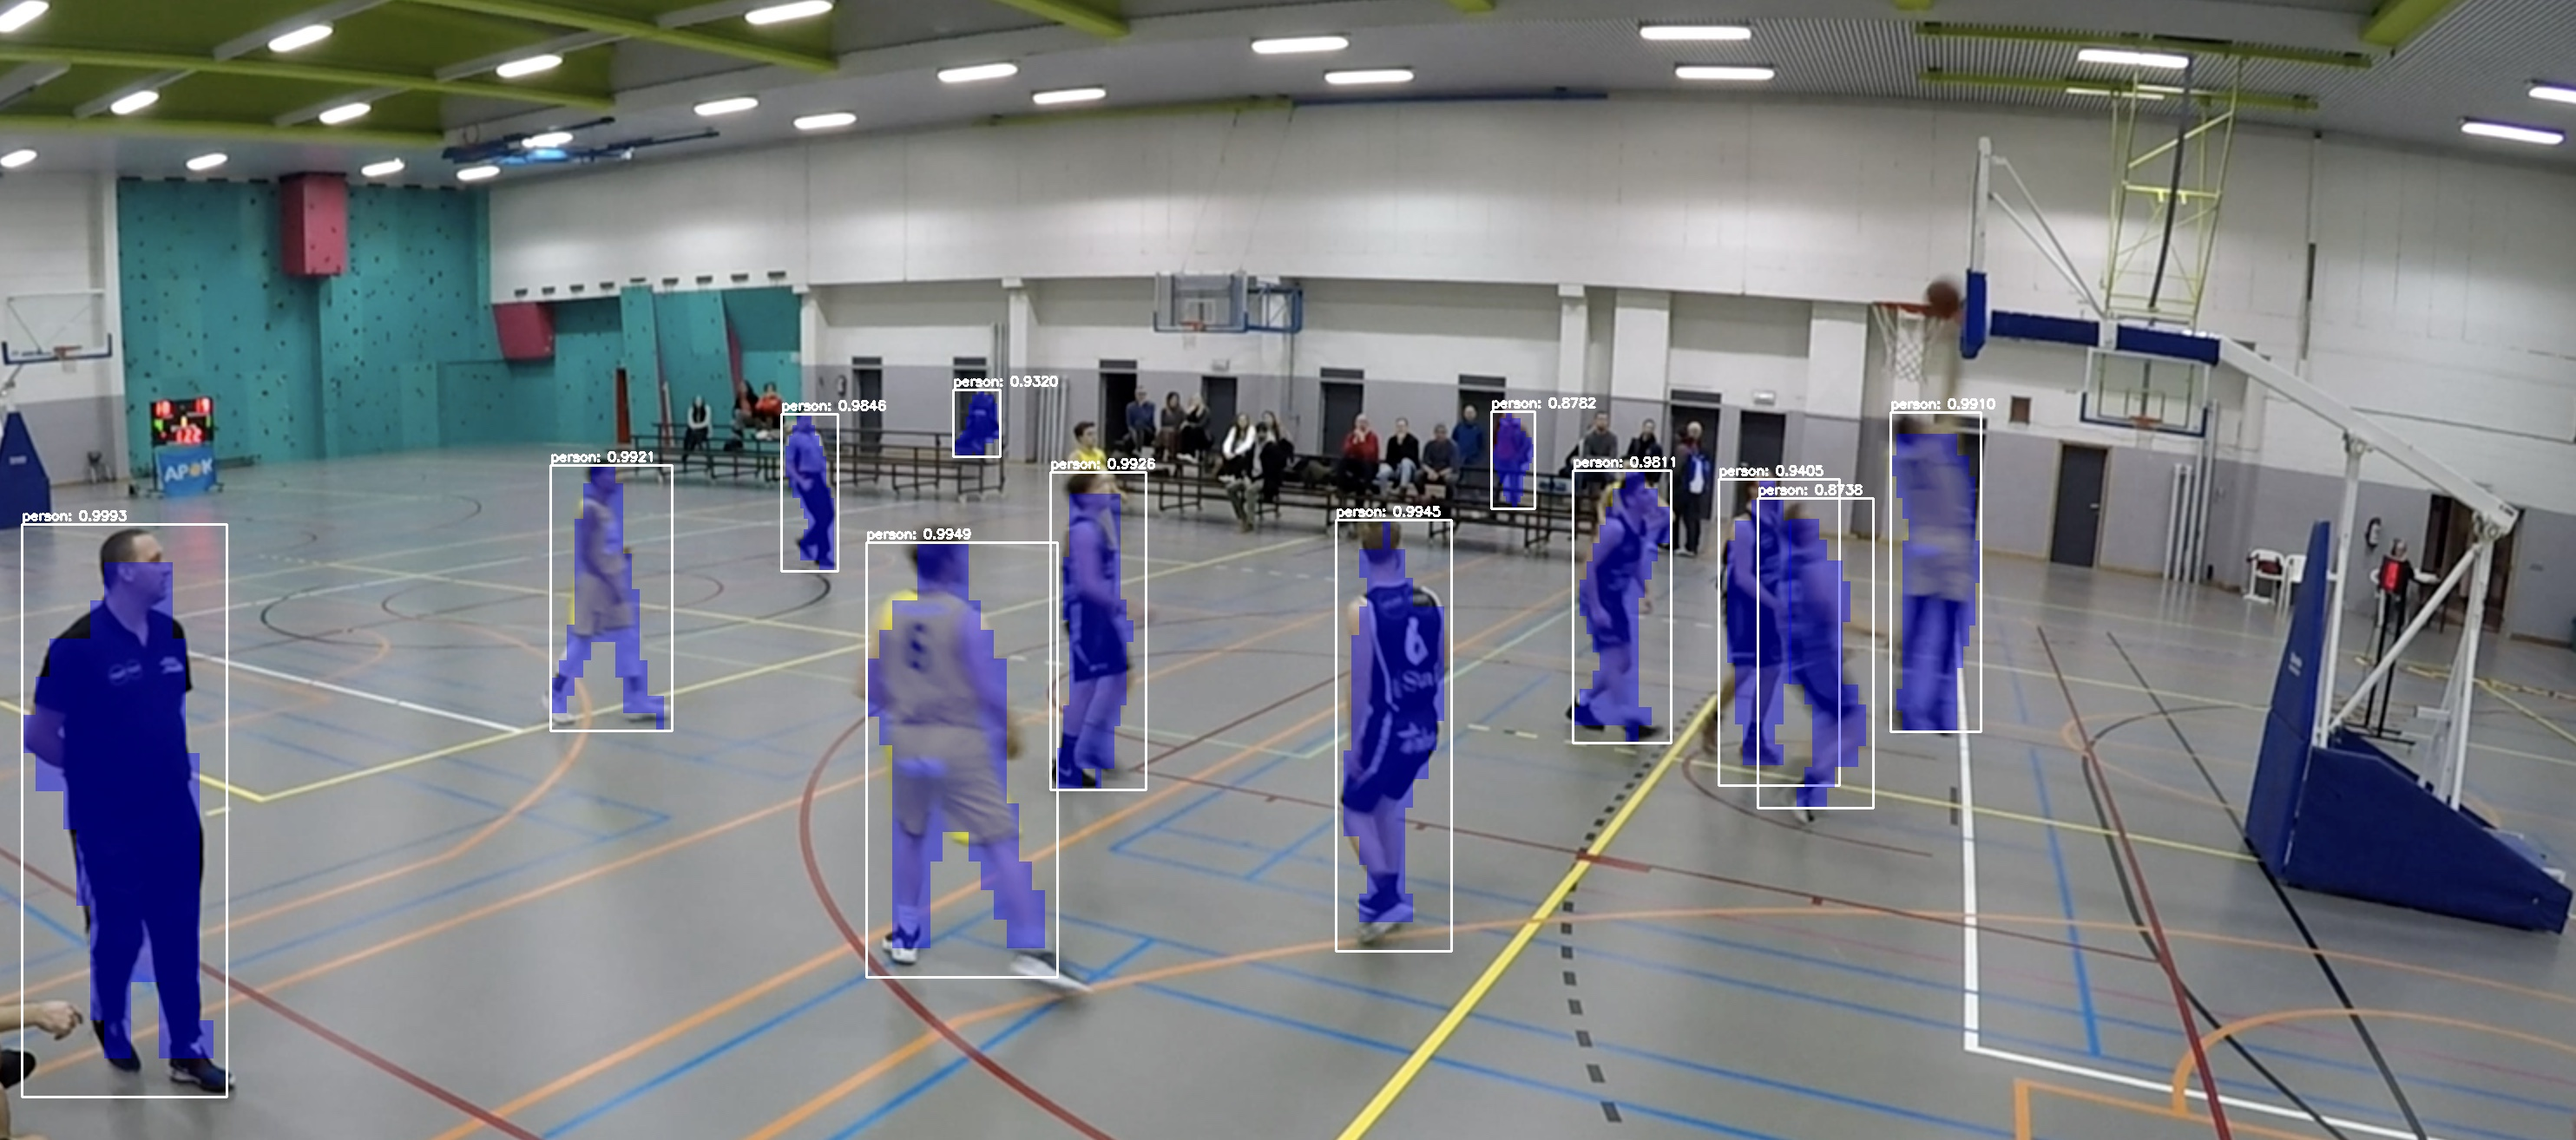
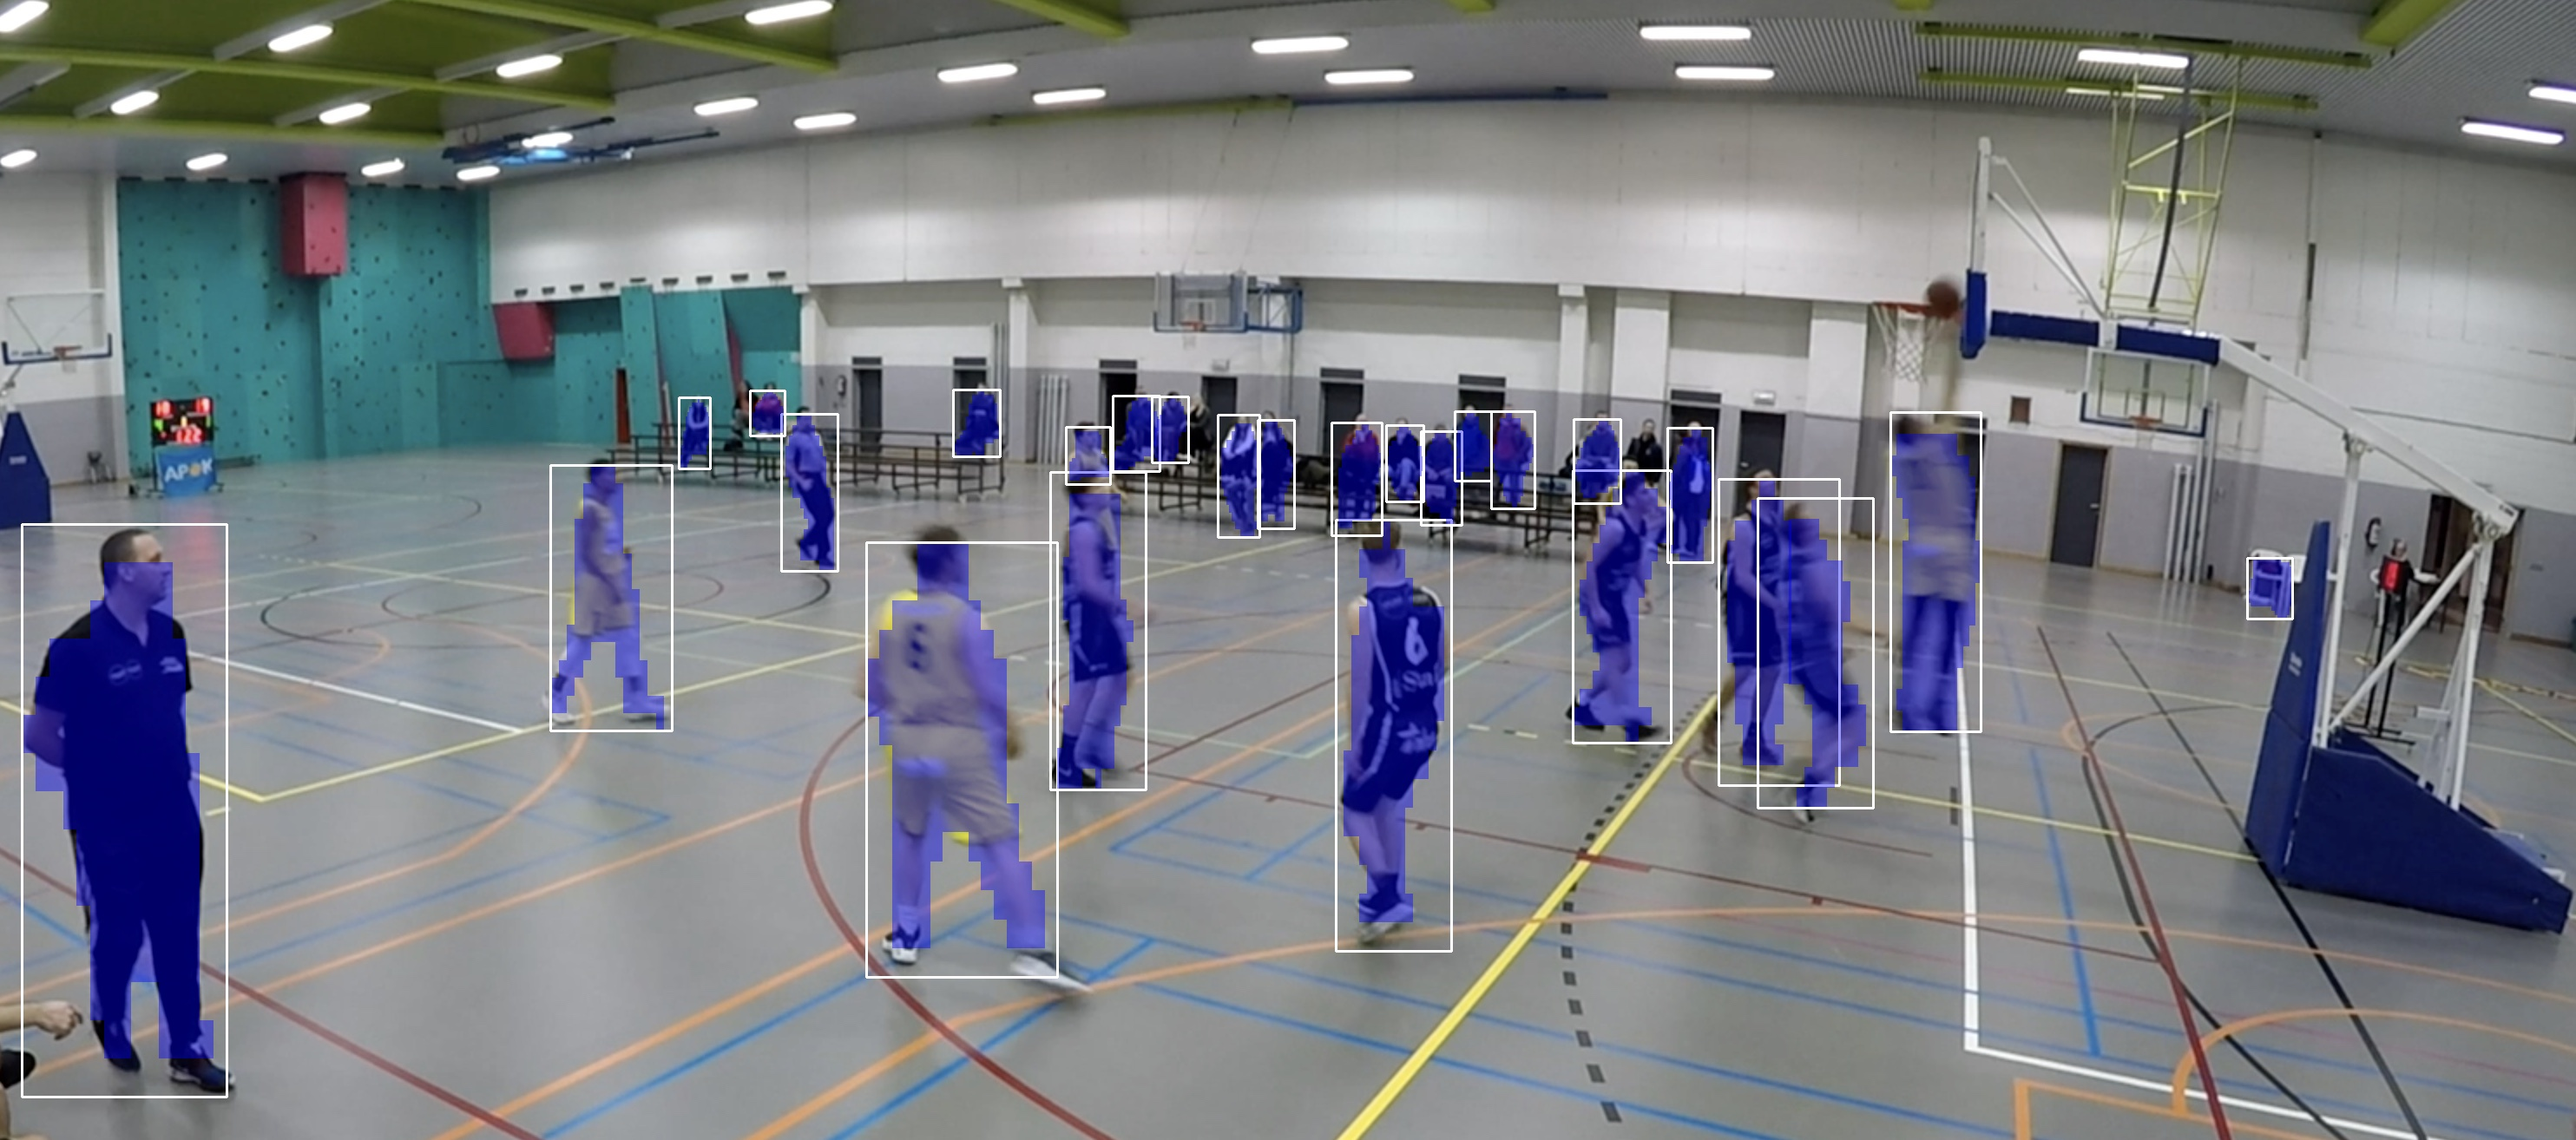
updated color-detection run script

diff --git a/mask-rcnn/mask_rcnn.py b/mask-rcnn/mask_rcnn.py
@@ -99,12 +99,12 @@ for i in range(0, boxes.shape[2]):
 			instance = cv2.bitwise_and(roi, roi, mask=visMask)
 
 			# show the extracted ROI, the mask, along with the segmented instance
-			cv2.imshow("ROI", roi)
-			cv2.imshow("Mask", visMask)
-			cv2.imshow("Segmented", instance)
+			# cv2.imshow("ROI", roi)
+			# cv2.imshow("Mask", visMask)
+			# cv2.imshow("Segmented", instance)
 
 			# write the segmented image to disk
-			cv2.imwrite("segemented{}.jpg".format(i), instance)
+			cv2.imwrite("output/segmented{}.jpg".format(i), instance)
 			
 		# now, extract *only* the masked region of the ROI by passing in the boolean mask array as our slice condition
 		roi = roi[mask]
@@ -120,8 +120,9 @@ for i in range(0, boxes.shape[2]):
 		cv2.rectangle(image, (startX, startY), (endX, endY), (255,255,255), 2)
 
 		# draw the predicted label and associated probability of the instance segmentation on the image
-		text = "{}: {:.4f}".format(LABELS[classID], confidence)
-		cv2.putText(image, text, (startX, startY - 5), cv2.FONT_HERSHEY_SIMPLEX, 0.5, (255,255,255), 2)
+		if classID == 1:
+			text = "{}: {:.4f}".format(LABELS[classID], confidence)
+			cv2.putText(image, text, (startX, startY - 5), cv2.FONT_HERSHEY_SIMPLEX, 0.5, (255,255,255), 2)
 
 		# show the output image
 		# cv2.imshow("Output", image)
